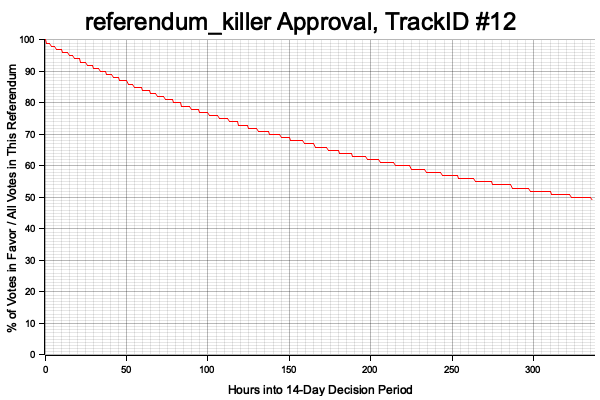
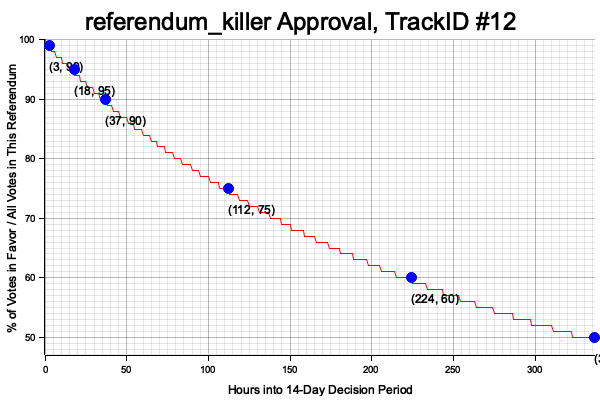
frame individual plots to y min and y max with small margin

Changed region(s): [[0.03, 0.09, 1.0, 0.93], [0.03, 0.48, 0.06, 0.51]]

diff --git a/src/curve.rs b/src/curve.rs
@@ -33,6 +33,7 @@ pub type Curves = Vec<CurveInfo>;
 fn decision_period(curves: &Curves) -> u32 {
     let hours = curves[0].points.len();
     for curve in curves {
+        // plus thresholds
         if curve.points.len() != hours {
             panic!("Decision Period not constant for all curves");
         }
@@ -41,14 +42,14 @@ fn decision_period(curves: &Curves) -> u32 {
 }
 
 pub(crate) fn plot_approval_curves(curves: Curves) {
-    plot_curves_comparison(CurveType::Approval, curves)
+    plot_curves(CurveType::Approval, curves)
 }
 
 pub(crate) fn plot_support_curves(curves: Curves) {
-    plot_curves_comparison(CurveType::Support, curves)
+    plot_curves(CurveType::Support, curves)
 }
 
-fn plot_curves_comparison(ty: CurveType, curves: Curves) {
+fn plot_curves(ty: CurveType, curves: Curves) {
     let (plot_png, plot_title, y_axis_label) = match ty {
         CurveType::Approval => (
             "plots/Approvals.png",
@@ -90,83 +91,111 @@ fn plot_curves_comparison(ty: CurveType, curves: Curves) {
         .unwrap();
 }
 
-// TODO
-fn plot_curves(ty: CurveType, curves: Curves, write_points_to_csv: bool) {
-    todo!()
-}
-
 pub(crate) fn plot_curve(
     name: String,
     id: u16,
     curve_ty: CurveType,
     curve: &Curve,
     hours: u32,
-    thresholds: Vec<Perbill>,
-    write_points_to_csv: bool,
 ) -> Vec<(u32, i32)> {
-    let (plot_png, chart_title) = match curve_ty {
+    let (plot_png, points_csv, chart_title, y_axis_label) = match curve_ty {
         CurveType::Approval => (
             format!("plots/{} Approval.png", name),
+            format!("points/{} Approval.csv", name),
             format!("{} Approval, TrackID #{}", name, id),
+            "% of Votes in Favor / All Votes in This Referendum",
         ),
         CurveType::Support => (
             format!("plots/{} Support.png", name),
+            format!("points/{} Support.csv", name),
             format!("{} Support, TrackID #{}", name, id),
+            "% of Votes in This Referendum / Total Possible Turnout",
         ),
     };
     let grid = BitMapBackend::new(&plot_png, (600, 400)).into_drawing_area();
     grid.fill(&WHITE).unwrap();
+    let (mut points_min, mut points_max) = ((0u32, Perbill::one()), (0u32, Perbill::zero()));
+    let curve_points: Vec<(u32, Perbill)> = (0..=hours)
+        .map(|x| {
+            let y = threshold(curve, Perbill::from_rational(x, hours));
+            if y > points_max.1 {
+                points_max = (x, y);
+            }
+            if y < points_min.1 {
+                points_min = (x, y);
+            }
+            (x, y)
+        })
+        .collect();
+    let (mut y_min, mut y_max) = (
+        perbill_to_percent_coordinate(points_min.1),
+        perbill_to_percent_coordinate(points_max.1),
+    );
+    if y_min > 5i32 {
+        y_min -= 2i32;
+    } else {
+        y_min = 0i32;
+    };
+    if y_max < 95i32 {
+        y_max += 2i32;
+    } else {
+        y_max = 100i32;
+    }
     let mut chart = ChartBuilder::on(&grid)
         .caption(&chart_title, ("sans-serif", 30))
         .margin(5)
         .set_left_and_bottom_label_area_size(40)
-        // TODO: y label should be from y_min to y_max instead of 0-100
-        .build_cartesian_2d(0..hours + 1, 0..100)
+        .build_cartesian_2d(0..hours, y_min..y_max)
         .unwrap();
     let x_axis_label = format!("Hours into {}-Day Decision Period", hours / 24);
-    match curve_ty {
-        CurveType::Approval => chart
-            .configure_mesh()
-            .y_desc("% of Votes in Favor / All Votes in This Referendum")
-            .x_desc(x_axis_label.clone())
-            .axis_desc_style(("sans-serif", 15))
-            .draw()
-            .unwrap(),
-        CurveType::Support => chart
-            .configure_mesh()
-            .y_desc("% of Votes in This Referendum / Total Possible Turnout")
-            .x_desc(x_axis_label.clone())
-            .axis_desc_style(("sans-serif", 15))
-            .draw()
-            .unwrap(),
-    }
-    let threshold_points: Vec<(u32, Perbill)> = thresholds
+    chart
+        .configure_mesh()
+        .y_desc(y_axis_label)
+        .x_desc(x_axis_label)
+        .axis_desc_style(("sans-serif", 15))
+        .draw()
+        .unwrap();
+    write_curve_points_csv(points_csv, curve_points.clone());
+    let points = curve_points
         .into_iter()
-        .map(|y| (curve.delay(y) * hours, y))
-        .collect();
-    let curve_points =
-        (0..=hours).map(move |x| (x, threshold(curve, Perbill::from_rational(x, hours))));
-    // TODO: merge in order would be nicer csv output but easy to sort in excel
-    let mut points_for_csv: Vec<(u32, Perbill)> = curve_points.clone().collect();
-    points_for_csv.append(&mut threshold_points.clone());
-    if write_points_to_csv {
-        let points_csv = match curve_ty {
-            CurveType::Approval => format!("points/{} Approval.csv", name),
-            CurveType::Support => format!("points/{} Support.csv", name),
-        };
-        write_curve_points_csv(points_csv, points_for_csv);
-    }
-    let points = curve_points.map(move |(x, y)| (x, perbill_to_percent_coordinate(y)));
+        .map(move |(x, y)| (x, perbill_to_percent_coordinate(y)));
     chart
         .draw_series(LineSeries::new(points.clone(), &RED))
         .unwrap();
+    // TODO: minute, second accuracy
+    // TODO: functions on top which take input starting_time and output threshold_times
+    // get min and max for points and then use that to educate thresholds filter
+    // make these depend on the range, and also make the chart depend on range
+    let thresholds: Vec<Perbill> = vec![99, 95, 90, 75, 60, 50, 40, 30, 25, 20, 10, 5, 1]
+        .into_iter()
+        .map(|x| Perbill::from_percent(x))
+        .collect();
+    // TODO: append points_min, points_max to threshold_points
+    let mut dedup_threshold_points = Vec::new();
+    let threshold_points: Vec<(u32, Perbill)> = thresholds
+        .into_iter()
+        .filter_map(|y| {
+            // also need to filter out if the threshold point already exists
+            if y > points_min.1
+                && y < points_max.1
+                && !dedup_threshold_points.contains(&(curve.delay(y) * hours))
+            {
+                dedup_threshold_points.push(curve.delay(y) * hours);
+                Some((curve.delay(y) * hours, y))
+            } else {
+                None
+            }
+        })
+        .collect();
+    // include min/max in threshold points
+    // then make threshold points more legitimate
     chart
         .draw_series(PointSeries::of_element(
             threshold_points
                 .into_iter()
                 .map(move |(x, y)| (x, perbill_to_percent_coordinate(y))),
             5,
-            ShapeStyle::from(&GREEN).filled(),
+            ShapeStyle::from(&BLUE).filled(),
             &|coord, size, style| {
                 EmptyElement::at(coord)
                     + Circle::new((0, 0), size, style)

diff --git a/src/main.rs b/src/main.rs
@@ -17,8 +17,6 @@ fn main() {
                 CurveType::Approval,
                 &track.min_approval,
                 (track.decision_period / DAYS) * 24,
-                Vec::new(),
-                true,
             ),
         });
         support_curves.push(CurveInfo {
@@ -30,8 +28,6 @@ fn main() {
                 CurveType::Support,
                 &track.min_support,
                 (track.decision_period / DAYS) * 24,
-                Vec::new(),
-                true,
             ),
         });
     }
